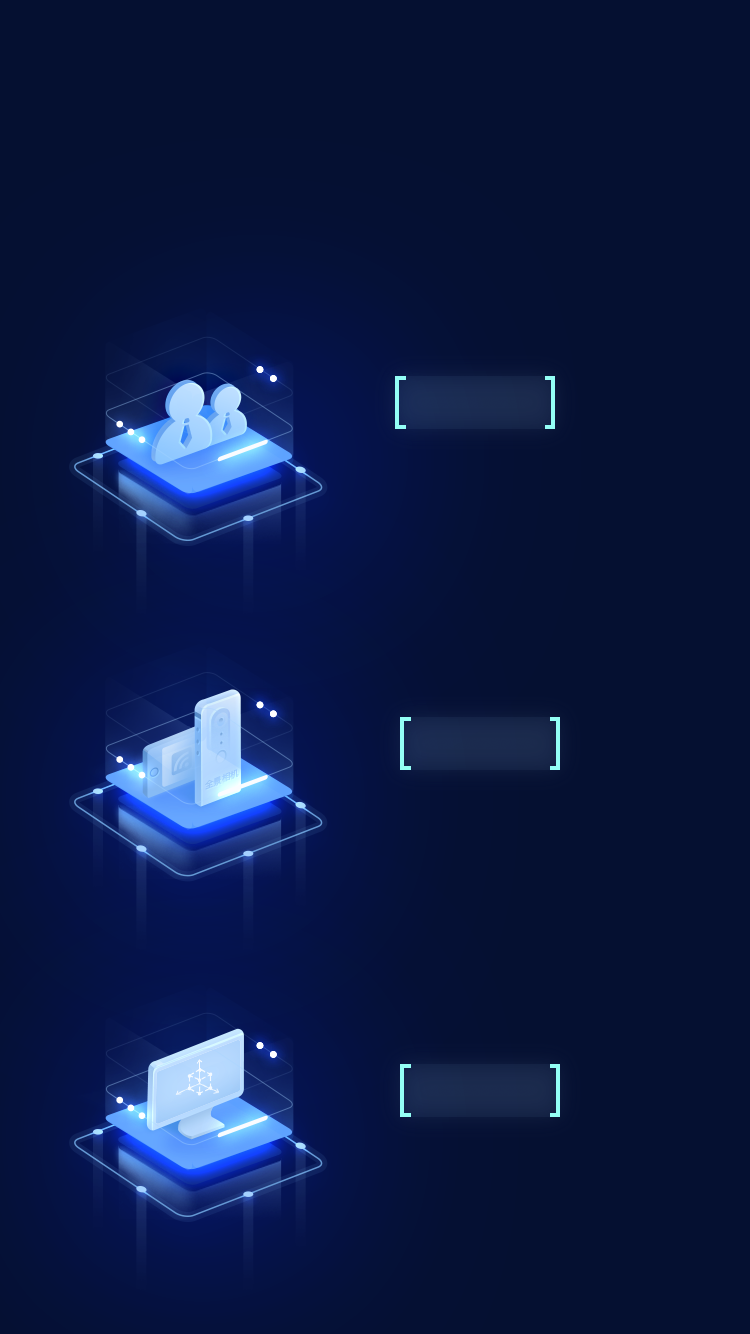
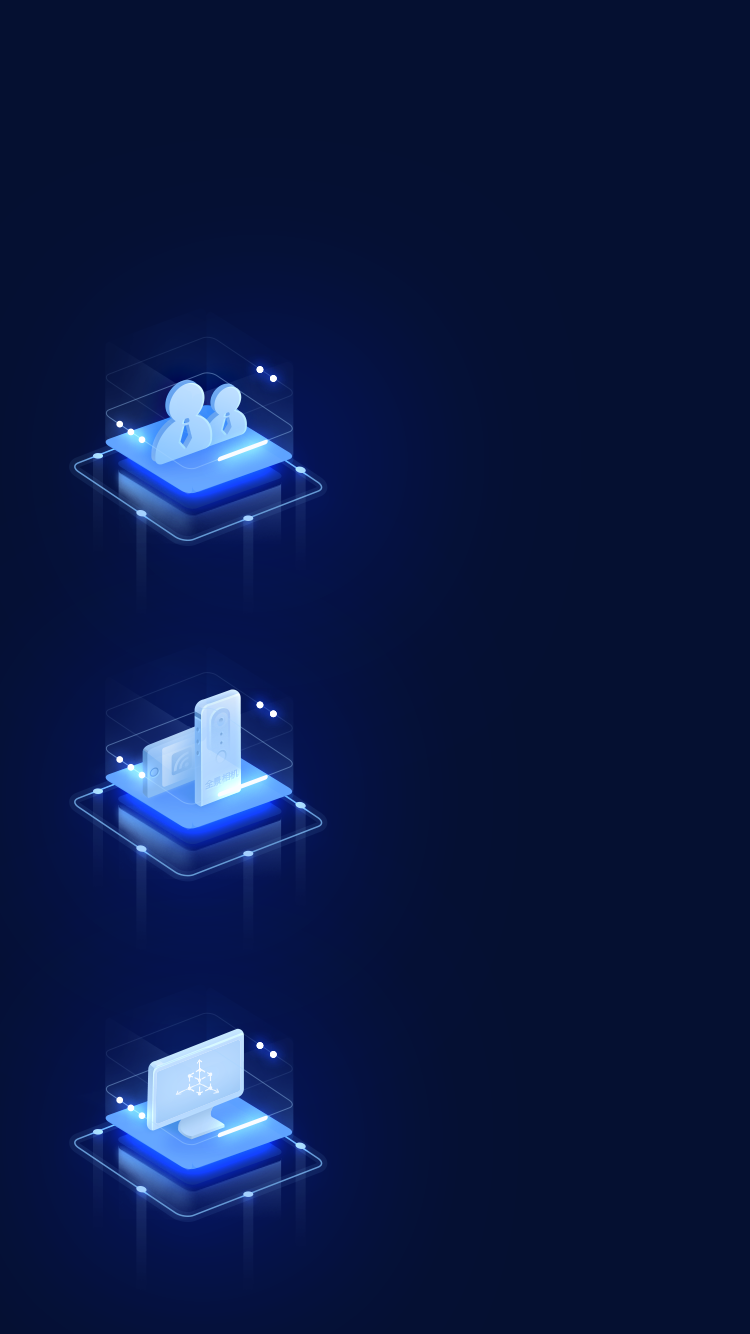
终于排好了

Changed region(s): [[0.5213, 0.5225, 0.7667, 0.584], [0.5213, 0.2766, 0.7667, 0.3381], [0.5213, 0.7991, 0.7667, 0.8298]]

diff --git a/vue-fullpage-slide/src/components/swiperPages/pageThree.vue b/vue-fullpage-slide/src/components/swiperPages/pageThree.vue
@@ -6,54 +6,22 @@
         <div
             class="number-container"
             v-for="(number, i) in numberList"
-            :key="i"
-            :class="`containerer${i}`"
+            :key="`container${i}`"
+            :class="`container${i}`"
         >
             <div
                 class="number"
                 v-for="(item, j) in number"
-                :key="j"
+                :key="`number${j}`"
                 :class="`number${j}`"
             >
-                <div><img :src="item.src" />{{ item.num }}</div>
+                <div>
+                    <img v-if="item.showImg" src="/static/img/rise.png" />
+                    {{ item.num }}
+                </div>
                 <span>{{ item.detail }}</span>
             </div>
         </div>
-        <!-- <div class="number-container container1">
-            <div class="number number1">
-                <div><img src="/static/img/rise.png" alt="" />350%</div>
-                <span>房均点击量</span>
-            </div>
-            <div class="number number2">
-                <div><img src="/static/img/rise.png" alt="" />130%</div>
-                <span>房均停留时长</span>
-            </div>
-            <div class="number number3">
-                <div><img src="/static/img/rise.png" alt="" />40%</div>
-                <span>用户返回率</span>
-            </div>
-        </div>
-        <div class="number-container container2">
-            <div class="number number4">
-                <div>500+</div>
-                <span>覆盖城市</span>
-            </div>
-
-            <div class="number number5">
-                <div>34000+</div>
-                <span>覆盖经纪门店</span>
-            </div>
-        </div>
-        <div class="number-container container3">
-            <div class="number number6">
-                <div>10000+</div>
-                <span>合作经济公司</span>
-            </div>
-            <div class="number number7">
-                <div>400000+</div>
-                <span>服务经纪人量</span>
-            </div>
-        </div> -->
         <div v-for="el in 4" :key="el" class="ripple" :class="{}"></div>
     </div>
 </template>
@@ -64,9 +32,9 @@ export default {
         return {
             // flag: true
             numberList: [
-                [{ num: '350%', detail: '房均点击量', src: '/static/img/rise.png' }, { num: '130%', detail: '房均停留时长', src: '/static/img/rise.png' }, { num: '40%', detail: '用户返回率', src: '/static/img/rise.png' }],
-                [{ num: '500+', detail: '覆盖城市', src: '' }, { num: '34000+', detail: '覆盖经纪门店', src: '' },],
-                [, { num: '10000+', detail: '合作经济公司', src: '' }, { num: '400000+', detail: '服务经纪人量', src: '' }],
+                [{ num: '350%', detail: '房均点击量', showImg: true }, { num: '130%', detail: '房均停留时长', showImg: true }, { num: '40%', detail: '用户返回率', showImg: true }],
+                [{ num: '500+', detail: '覆盖城市', showImg: false }, { num: '34000+', detail: '覆盖经纪门店', showImg: false },],
+                [{ num: '10000+', detail: '合作经济公司', showImg: false }, { num: '400000+', detail: '服务经纪人量', showImg: false }],
             ]
         }
     },
@@ -85,7 +53,10 @@ export default {
     .number {
         display: inline-block;
         & > div {
+            font-family: Avenir;
+            font-weight: 900;
             font-size: 0.44rem;
+            margin-bottom: 5%;
             img {
                 width: 0.31rem;
                 height: 0.33rem;
@@ -93,12 +64,13 @@ export default {
         }
 
         span {
+            font-weight: 300;
             font-size: 0.22rem;
             width: 100%;
         }
     }
 
-    &.container1 {
+    &.container0 {
         height: 30%;
 
         .number {
@@ -106,27 +78,27 @@ export default {
             text-align: center;
         }
     }
-    &.container2 {
+    &.container1 {
         .number {
             width: 45%;
         }
-        .number4 {
+        .number0 {
             margin-top: 5%;
         }
-        .number5 {
+        .number1 {
             margin-top: 20%;
         }
     }
-    &.container3 {
+    &.container2 {
         justify-content: flex-end;
         .number {
             height: 20%;
         }
-        .number6 {
+        .number0 {
             width: 48%;
             margin-top: -15%;
         }
-        .number7 {
+        .number1 {
             width: 32%;
         }
     }

diff --git a/vue-fullpage-slide/src/components/swiperPages/pageTwo.vue b/vue-fullpage-slide/src/components/swiperPages/pageTwo.vue
@@ -4,16 +4,16 @@
             品牌优势
         </div>
         <div class="content content1">
-            <p>全适用</p>
-            <span>人尽所用，房尽所拍，<br />任一经纪人均可轻松上手拍摄</span>
+            <div>全适用</div>
+            <p>人尽所用，房尽所拍，<br />任一经纪人均可轻松上手拍摄</p>
         </div>
         <div class="content content2">
-            <p>全高效</p>
-            <span>自动量房，智能拼接，<br />房源标尺及空间信息一目了然</span>
+            <div>全高效</div>
+            <p>自动量房，智能拼接，<br />房源标尺及空间信息一目了然</p>
         </div>
         <div class="content content3">
-            <p>全智能</p>
-            <span>闪电拍摄，一键上传，<br />平均拍摄一套100㎡房源约10分钟</span>
+            <div>全智能</div>
+            <p>闪电拍摄，一键上传，<br />平均拍摄一套100㎡房源约10分钟</p>
         </div>
     </div>
 </template>
@@ -32,29 +32,36 @@ export default {
 <style lang="scss" scoped>
 .content {
     position: absolute;
-    margin-left: 52%;
-    p {
+    // margin-left: 52%;
+    right: 0;
+    width: 52%;
+    & > div {
         font-size: 0.28rem;
-        line-height: 0.38rem;
+        line-height: 0.9rem;
+        background: url(/static/img/icon_title.png) no-repeat;
+        background-size: contain;
+        height: 0.9rem;
+        width: 2rem;
+        text-align: center;
+        font-weight: 600;
     }
-    span {
+    p {
         display: inline-block;
+        margin-top: 3%;
         width: 10rem;
         font-size: 0.29rem;
-        font-family: PingFang SC;
         font-weight: 300;
         color: rgba(165, 211, 255, 1);
         line-height: 0.5rem;
-        overflow: hidden;
     }
     &.content1 {
-        margin-top: 15.8%;
+        margin-top: 12%;
     }
     &.content2 {
-        margin-top: 61.2%;
+        margin-top: 58%;
     }
     &.content3 {
-        margin-top: 107.5%;
+        margin-top: 104%;
     }
 }
 </style>

diff --git a/vue-fullpage-slide/src/components/swiperPages/pageSix.vue b/vue-fullpage-slide/src/components/swiperPages/pageSix.vue
@@ -51,6 +51,7 @@ export default {
 .content-title {
     position: absolute;
     font-size: 0.28rem;
+    font-weight: 600;
     width: 40%;
     text-align: center;
     &.title1 {
@@ -72,10 +73,13 @@ export default {
     }
     p {
         font-size: 0.24rem;
+        font-weight: 400;
         margin-top: 5%;
     }
     span {
         font-size: 0.2rem;
+        font-weight: 400;
+        color: rgba(165, 211, 255, 1);
     }
     &.detail1 {
         width: 50%;
@@ -95,6 +99,7 @@ export default {
     span {
         display: block;
         font-size: 0.2rem;
+        font-weight: 400;
         margin-bottom: 12.5%;
         &::before {
             content: "";
@@ -121,6 +126,9 @@ export default {
     margin-top: 125%;
     width: 100%;
     text-align: center;
+    font-size: 0.22rem;
+    font-weight: 400;
+    color:rgba(255,255,255,1);
 }
 
 p {

diff --git a/vue-fullpage-slide/src/components/swiperPages/pageFour.vue b/vue-fullpage-slide/src/components/swiperPages/pageFour.vue
@@ -41,10 +41,13 @@ export default {
     width: 100%;
     p {
         font-size: 0.28rem;
+        font-weight: 600;
+        color: rgba(148, 255, 245, 1);
         margin-bottom: 0.16rem;
     }
     span {
         font-size: 0.22rem;
+        font-weight: 300;
     }
     &.content1 {
         margin-top: 22%;
@@ -55,11 +58,11 @@ export default {
         left: 70%;
     }
     &.content3 {
-        margin-top: 82%;
+        margin-top: 81%;
         margin-left: 10%;
     }
     &.content4 {
-        margin-top: 82%;
+        margin-top: 81%;
         margin-left: 70%;
     }
 }

diff --git a/vue-fullpage-slide/src/components/swiperPages/pageFive.vue b/vue-fullpage-slide/src/components/swiperPages/pageFive.vue
@@ -106,10 +106,10 @@ export default {
     line-height: 0.6rem;
     li {
         font-size: 0.3rem;
+        font-weight: 400;
     }
 }
 .swiper-container {
-    // height: 60%;
     .content-container {
         display: flex;
         flex-direction: column;
@@ -124,9 +124,11 @@ export default {
             }
             p {
                 font-size: 0.28rem;
+                font-weight: 600;
             }
             span {
                 font-size: 0.24rem;
+                font-weight: 400;
             }
         }
     }

diff --git a/vue-fullpage-slide/config/index.js b/vue-fullpage-slide/config/index.js
@@ -13,7 +13,7 @@ module.exports = {
     proxyTable: {},
 
     // Various Dev Server settings
-    host: '10.249.16.28', // can be overwritten by process.env.HOST
+    host: '192.168.0.106', // can be overwritten by process.env.HOST
     port: 5005, // can be overwritten by process.env.PORT, if port is in use, a free one will be determined
     autoOpenBrowser: false,
     errorOverlay: true,

diff --git a/vue-fullpage-slide/src/components/swiperPages/pageSeven.vue b/vue-fullpage-slide/src/components/swiperPages/pageSeven.vue
@@ -49,10 +49,12 @@ export default {
         p {
             text-align: center;
             font-size: 0.26rem;
+            font-weight:600;
         }
         div {
             text-align: center;
             font-size: 0.22rem;
+            font-weight:300;
         }
         &.content1 {
             // margin-top: 32%;

diff --git a/vue-fullpage-slide/src/components/swiperPageMain.vue b/vue-fullpage-slide/src/components/swiperPageMain.vue
@@ -61,7 +61,6 @@ export default {
                 on: {
                     slideChangeTransitionEnd: () => {
                         this.storeSwitchPageIndex(this.swiper.activeIndex);
-                        console.log(1);
                     },
                 }
                 // effect: 'flip',

diff --git a/vue-fullpage-slide/src/components/componentButton.vue b/vue-fullpage-slide/src/components/componentButton.vue
@@ -30,6 +30,7 @@ a {
     left: 50%;
     transform: translateX(-50%);
     font-size: 0.26rem;
+    font-weight: 600;
     color: rgba(255, 255, 255, 1);
     .btn-bg {
         display: inline-block;

diff --git a/vue-fullpage-slide/src/components/swiperPages/pageEight.vue b/vue-fullpage-slide/src/components/swiperPages/pageEight.vue
@@ -33,5 +33,7 @@ export default {
     top: 65%;
     width: 100%;
     text-align: center;
+    font-size: 0.22rem;
+    font-weight: 300;
 }
 </style>
